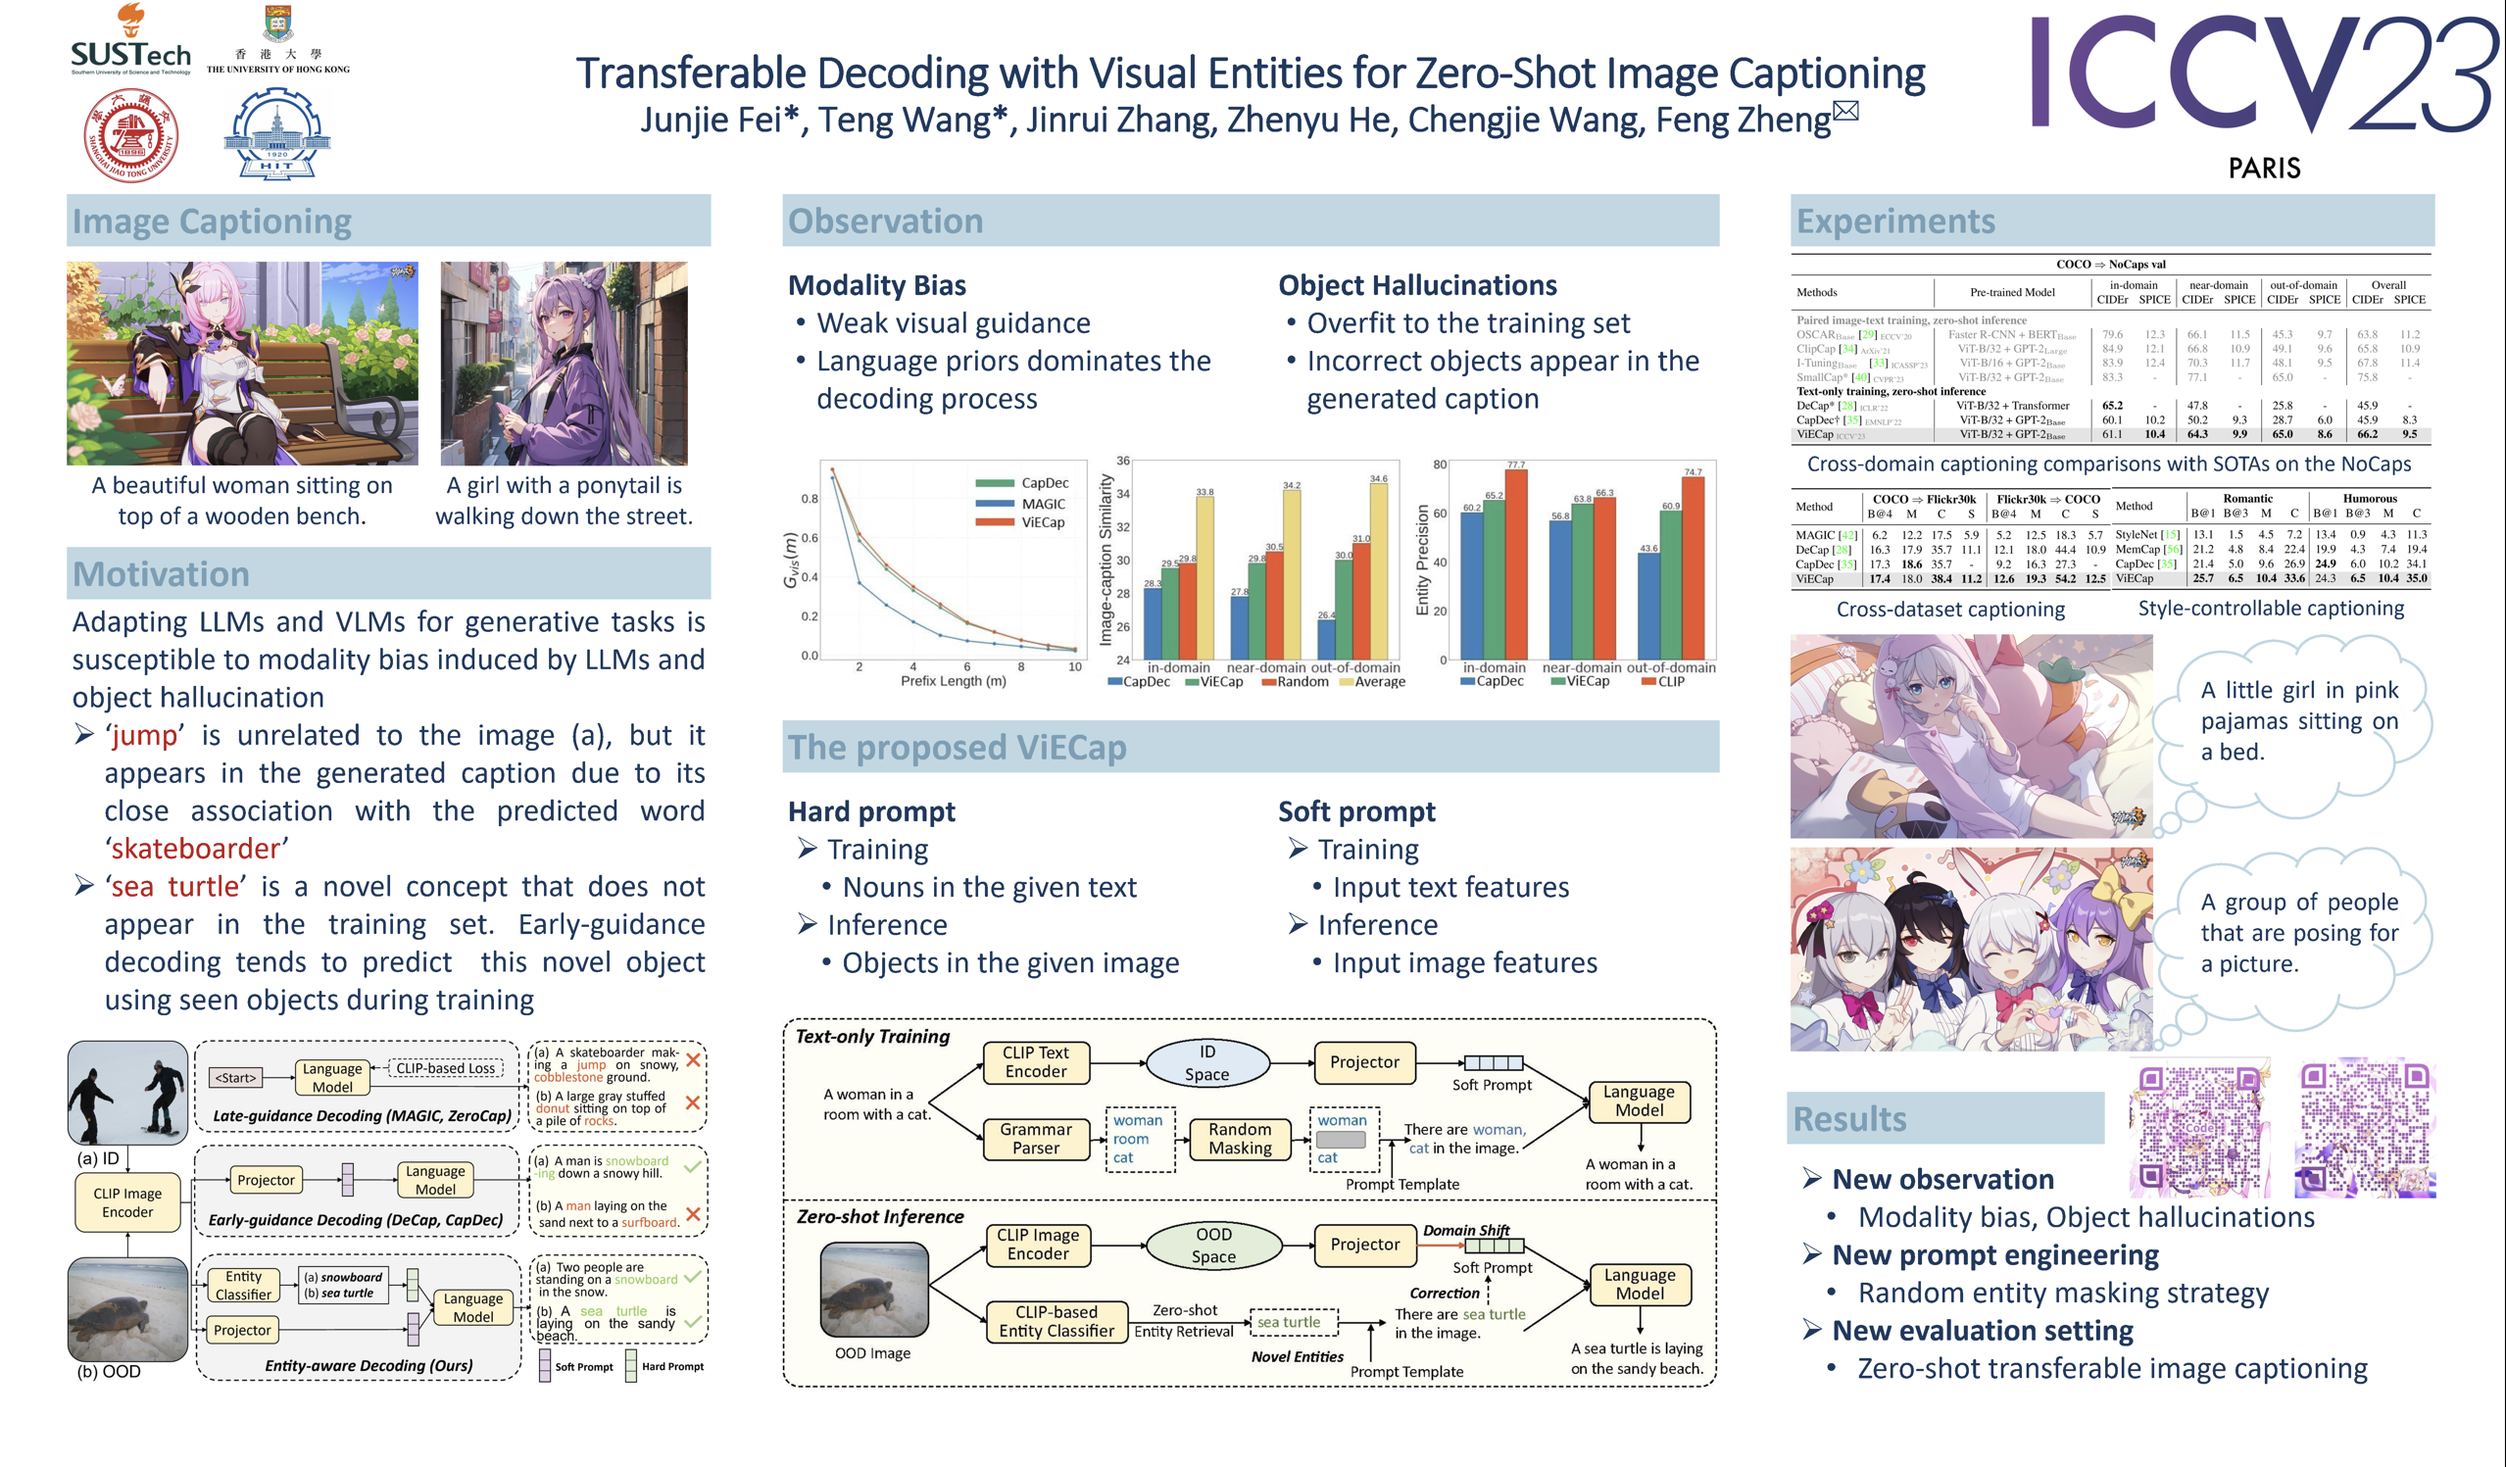
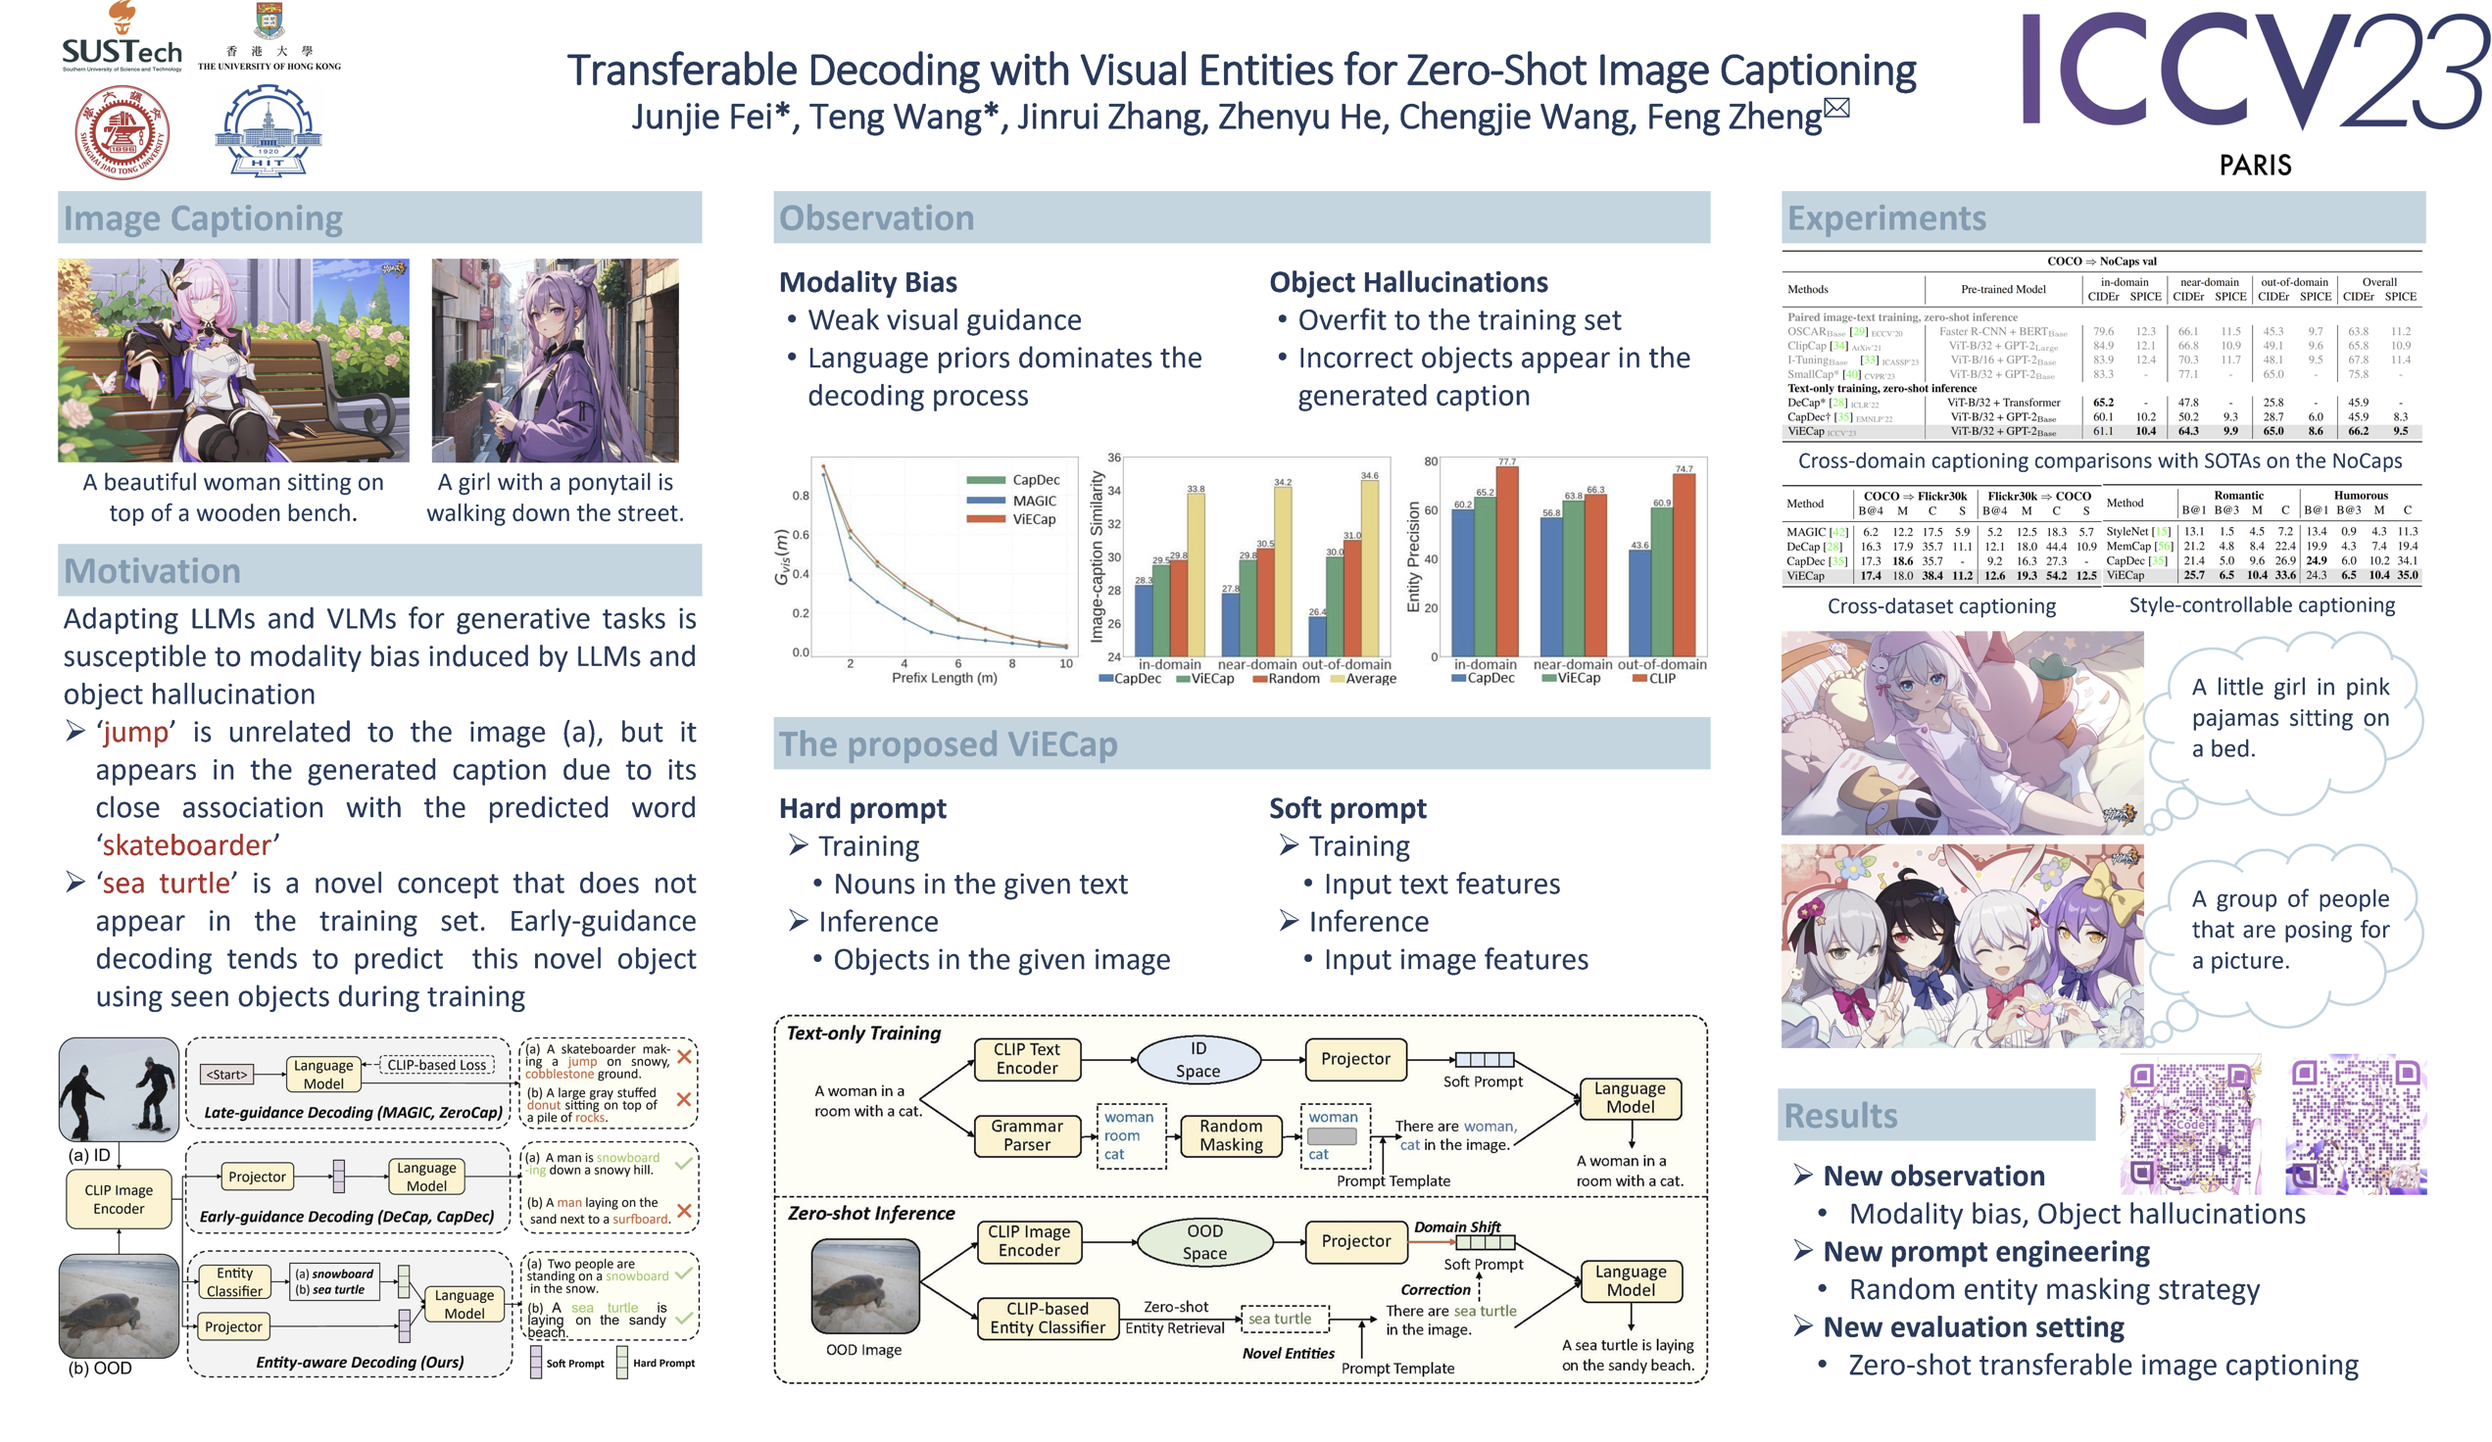
update

diff --git a/README.md b/README.md
@@ -9,12 +9,14 @@
 </a>
 </div>
 
+
+
 **Authors**: [Junjie Fei](https://feielysia.github.io/), [Teng Wang](http://ttengwang.com/), [Jinrui Zhang](https://github.com/zjr2000), Zhenyu He, Chengjie Wang, [Feng Zheng](https://faculty.sustech.edu.cn/fengzheng/)
 
 This repository contains the official implementation of our paper: [*Transferable Decoding with Visual Entities for Zero-Shot Image Captioning*](https://arxiv.org/abs/2307.16525).
 
 <div align = center>
-<img src="https://github.com/FeiElysia/ViECap/blob/main/demo/poster.png" width = 80% heigth = 80%>
+<img src="https://github.com/FeiElysia/ViECap/blob/main/demo/poster.png">
 </div>
 
 ***
